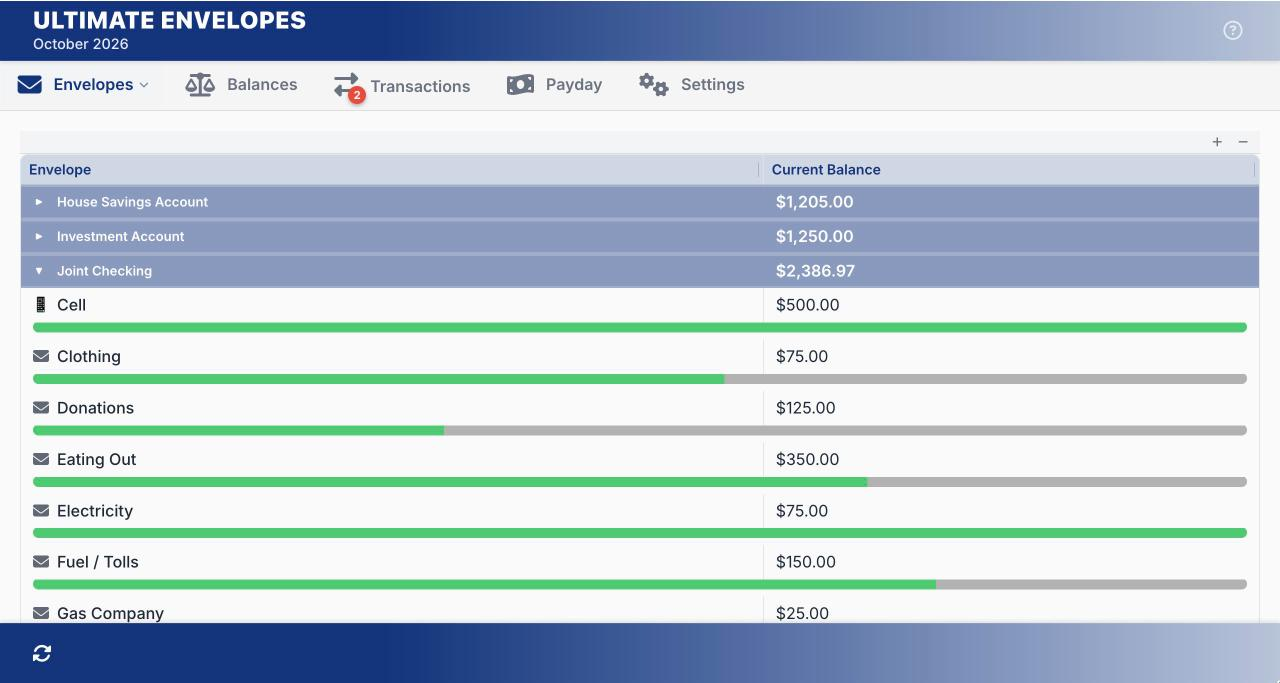
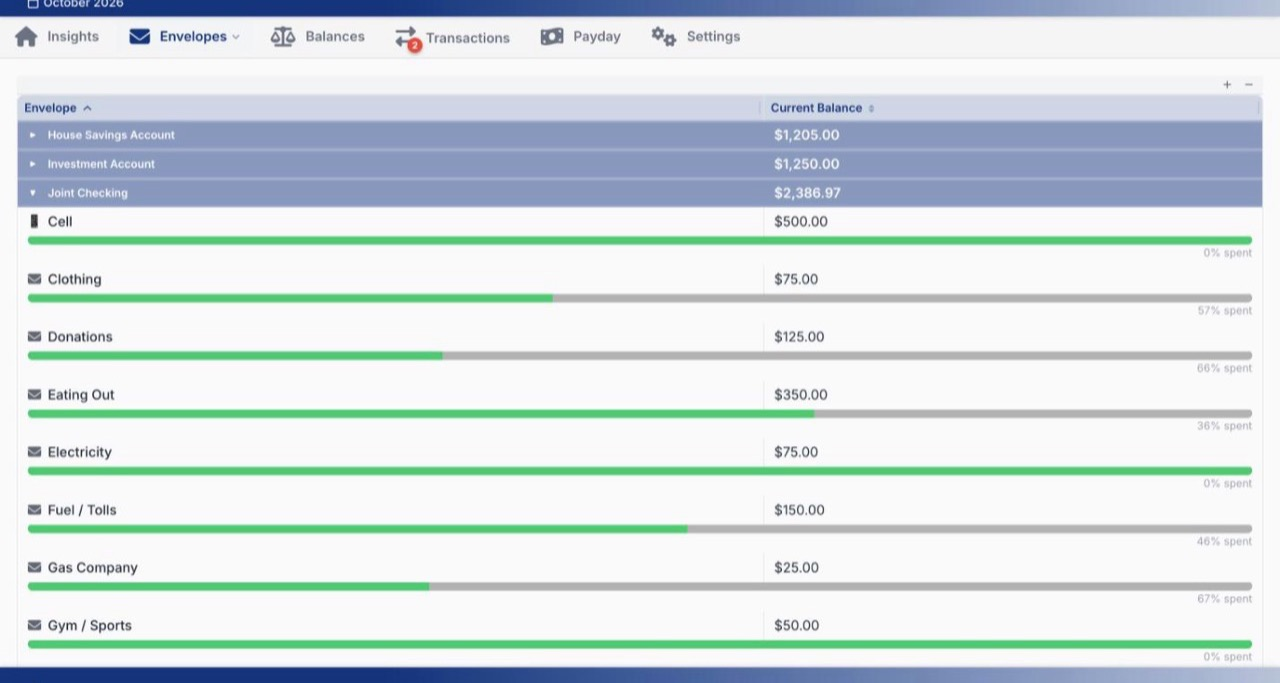
Docs (Companion 26.11): Insights tab and Edit layout, tools panels, Transactions search, ⓘ menu; new larger-screen shots

diff --git a/CLAUDE.md b/CLAUDE.md
@@ -74,7 +74,7 @@ This site is UE's primary source of end-user support documentation — write for
 | `ue26/sheet-reference.md` | Connecting Tiller, transaction types, first-time envelope funding, Categories sheet columns, Funding Transactions (Sheet subpage) — rebuilt for 26.x from `old docs/` |
 | `ue26/budget-tools.md` | Budget Tools and the Budget History tab: migration, Edit Budgets and Templates, Bulk Edit, template slots, Rename Template, Budget Settings, Refresh Categories Columns (Sheet subpage). Feature branch `feature/envelope-details` until released |
 | `ue26/companion-app.md` | UE Companion App overview: requirements, a table linking each tab page, screenshot carousel, home-screen install |
-| `ue26/companion-home.md` / `companion-envelopes.md` / `companion-balances.md` / `companion-transactions.md` / `companion-payday.md` / `companion-settings.md` | One page per app tab (Companion subpages). Each covers what the tab shows, then that tab's own settings. Per-tab settings (Envelope/Balance Settings) live on that tab's page; app-wide settings and Merchant Logos live on the Settings page |
+| `ue26/companion-home.md` (the Insights tab; the URL kept its old name) / `companion-envelopes.md` / `companion-balances.md` / `companion-transactions.md` / `companion-payday.md` / `companion-settings.md` | One page per app tab (Companion subpages). Each covers what the tab shows, then that tab's own settings. Per-tab settings (Envelope/Balance Settings) live on that tab's page; app-wide settings and Merchant Logos live on the Settings page |
 | `ue26/companion-setup.md` | Companion App deployment/connection walkthrough (Companion subpage) |
 | `ue26/categorize-transactions.md` | Categorizing transactions in the Companion, incl. Suggested envelopes (Companion subpage) |
 | `ue26/split-transaction.md` | Split Transaction walkthrough (Companion subpage) — nav title carries the "Now Available" badge |
@@ -106,7 +106,7 @@ docs:
       Changelog       → /ue26/sheet-changelog/
     UE Companion App → /ue26/companion-app/
       Getting Started           → /ue26/companion-setup/
-      Home                      → /ue26/companion-home/
+      Insights                  → /ue26/companion-home/
       Envelopes                 → /ue26/companion-envelopes/
       Balances                  → /ue26/companion-balances/
       Transactions              → /ue26/companion-transactions/
@@ -173,9 +173,11 @@ Features documented ahead of their Companion release carry `<span class="badge-c
 
 None pending. (Help Inside the App and the Tiller shortcut shipped in Companion v26.10.1.)
 
-**"New" badges** (`<span class="badge-new"><i class="fas fa-star" aria-hidden="true"></i> New</span>`, a green pill) mark pages and features added in the Budget Tools release: the Budget Tools page (title and sidebar), Sheet Reference → Emoji, two Sheet FAQ questions, Companion Envelopes (Envelope Details, Hide an Envelope, Choose an Emoji, Budget & Templates, the Summary card), Payday (more templates, Add a Template, Retire or Delete a Template), Settings (How the App Loads Your Data) and the Companion FAQ (Why does it say "Showing cached data"?). Headings with a badge carry an explicit `{: #id}` so their links don't change. Remove these badges in the release after.
+The Insights, tools-panel, Transactions search and ⓘ menu doc updates describe Companion v26.11 (feature branch `feature/envelope-details`); they go live with that release. Their new pictures (`companion-*-tools.jpg`, `companion-insights-edit-layout.jpg`) are larger-screen only until phone shots are taken.
 
-**"Updated" badges** (`<span class="badge-updated"><i class="fas fa-pen" aria-hidden="true"></i> Updated</span>`, a blue pill): whenever a doc edit significantly changes an existing section, put this badge next to that section's heading **and** next to the page's entry in the sidebar (`_data/navigation.yml`); brand-new sections and pages get "New" instead. Give a badged heading an explicit `{: #id}` (its old anchor) so links keep working. Currently on: Sheet Reference (Funding Templates, Monthly Budget Columns; sidebar), Sheet FAQ (sidebar), Companion Envelopes (Envelope Insights, Envelope Settings; sidebar), Payday (The Payday Screen, Each Envelope, Funding Templates, Edit a Template; sidebar), Settings (sidebar). Remove them in the release after, along with the "New" badges.
+**"New" badges** (`<span class="badge-new"><i class="fas fa-star" aria-hidden="true"></i> New</span>`, a green pill) mark pages and features added in the Budget Tools release: the Budget Tools page (title and sidebar), Sheet Reference → Emoji, two Sheet FAQ questions, Companion Envelopes (Envelope Details, Hide an Envelope, Choose an Emoji, Budget & Templates, the Summary card), Payday (more templates, Add a Template, Retire or Delete a Template), Settings (How the App Loads Your Data), Insights (Arrange the Dashboard), Envelopes (The Tools Panel) and the Companion FAQ (Why does it say "Showing cached data"?). Headings with a badge carry an explicit `{: #id}` so their links don't change. Remove these badges in the release after.
+
+**"Updated" badges** (`<span class="badge-updated"><i class="fas fa-pen" aria-hidden="true"></i> Updated</span>`, a blue pill): whenever a doc edit significantly changes an existing section, put this badge next to that section's heading **and** next to the page's entry in the sidebar (`_data/navigation.yml`); brand-new sections and pages get "New" instead. Give a badged heading an explicit `{: #id}` (its old anchor) so links keep working. Currently on: Sheet Reference (Funding Templates, Monthly Budget Columns; sidebar), Sheet FAQ (sidebar), Companion Envelopes (Envelope Insights, Envelope Settings; sidebar), Payday (The Payday Screen, Each Envelope, Funding Templates, Edit a Template; sidebar), Settings (sidebar), Insights (page title, The Cards; sidebar), Companion Envelopes (Envelope Balances), Balances (Balance Settings; sidebar), Transactions (The Tools Panel, Search and Filter; sidebar), Companion App (Help Inside the App; sidebar), Companion FAQ (sidebar). Remove them in the release after, along with the "New" badges.
 
 ## Help Page (/help/)
 

diff --git a/ue26/companion-envelopes.md b/ue26/companion-envelopes.md
@@ -11,9 +11,14 @@ See all your envelopes and their current balances at a glance, then tap into any
 
 ---
 
-## Envelope Balances
+## Envelope Balances <span class="badge-updated"><i class="fas fa-pen" aria-hidden="true"></i> Updated</span>
+{: #envelope-balances}
 
 Envelopes are organized in collapsible groups, just like the sheet. Tap an envelope to open its details.
+
+- **Sort:** tap the **Envelope** or **Current Balance** column header to sort by name or balance; tap again to reverse it. The groups are sorted the same way.
+- **% spent:** under each progress bar, how much of the envelope's money (its starting balance plus what was funded this month) has been spent.
+- **Open a progress bar:** tap it to see Funded, Spent, and Remaining. Each envelope remembers whether you left it open or closed.
 
 If your sheet has an **Emoji** column, each envelope's emoji shows in place of the envelope icon. Savings envelopes show the money bag and the emoji.
 
@@ -120,22 +125,28 @@ Changes apply from the month you pick onward. Earlier months keep their amounts.
 ## Envelope Settings <span class="badge-updated"><i class="fas fa-pen" aria-hidden="true"></i> Updated</span>
 {: #envelope-settings}
 
-1. Go to the **Envelopes** tab.
-2. Tap **Envelopes** in the tab bar again to open its menu (the small arrow next to the name is the hint), then tap **Settings**.
+### The Tools Panel <span class="badge-new"><i class="fas fa-star" aria-hidden="true"></i> New</span>
+{: #the-tools-panel}
 
-{% include figure class="phone-screenshot" image_path="/assets/images/companion-envelope-settings-menu.jpg" alt="Envelopes tab menu open, showing Settings and New Envelope" caption="Tap Envelopes again, then Settings" %}
+Tap **Envelopes** in the tab bar again (the small arrow next to the name is the hint) to open the tools panel. Tap it once more to close it; the app remembers whether you left it open.
 
-The same menu has **New Envelope** for creating an envelope.
+- **Filter pills:** Visible, Favorite, Overspent, Positive, Zero, Income, Transfer, All, or Hidden. Group totals add up only the envelopes you're showing.
+- **Group By pills:** Account, Group, Type, Visibility, or Off.
+- **New Envelope** creates an envelope, and **More Settings** opens Envelope Settings.
+
+{% include figure image_path="/assets/images/companion-envelope-tools.jpg" alt="Envelopes tools panel with filter pills, Group By pills, and New Envelope and More Settings buttons above the envelope list" caption="The Envelopes tools panel" %}
+
+### More Settings
+
+Tap **More Settings** in the tools panel.
 
 | Setting | What it does |
 |---|---|
-| **Filter By** | Which envelopes to show: All Visible, All, Favorite, Hidden, Income, Transfer, Negative, Positive, or Zero Balance. |
-| **Group By** | Group envelopes by **Account**, **Group**, **Type**, or **Visibility**, or turn grouping **Off**. |
 | **Column Visibility** *(computer only)* | Choose columns: Spent, Budget, Funded, Remaining, Total Balance, Beginning Balance, Previous Spend, Transaction Count. Phones show envelopes as cards, so this section only appears on larger screens. |
-| **Display** | Show or hide each envelope's progress bar. |
+| **Progress Bar** | Show or hide each envelope's progress bar, and **Show expanded by default** to open every bar with its Funded, Spent, and Remaining. Envelopes you open or close yourself keep your choice. |
 | **Envelope Insight Charts** | Choose which cards appear when you open an envelope: Summary, Current Balance, Funding Progress, Spending Comparison, Spending History, Savings Plan. |
 
-{% include figure class="phone-screenshot" image_path="/assets/images/companion-envelope-settings.png" alt="Envelope Settings panel with Filter By, Group By, Display, and Envelope Insight Charts numbered 1 to 6 starting with Summary" caption="Envelope Settings on a phone. The numbers show the order charts will appear" %}
+{% include figure class="phone-screenshot" image_path="/assets/images/companion-envelope-settings.png" alt="Envelope Settings panel with Progress Bar and Envelope Insight Charts numbered 1 to 6 starting with Summary" caption="Envelope Settings on a phone. The numbers show the order charts will appear" %}
 
 **Tip:** for columns and charts, the order you check them is the order they appear. The number next to each chart shows its position.
 {: .notice--info}

diff --git a/ue26/companion-transactions.md b/ue26/companion-transactions.md
@@ -31,23 +31,23 @@ The red number on the **Transactions** tab is how many transactions still need a
 
 ---
 
-## The Transactions Menu
+## The Tools Panel <span class="badge-updated"><i class="fas fa-pen" aria-hidden="true"></i> Updated</span>
+{: #the-transactions-menu}
 
-Tap **Transactions** in the tab bar again to open its menu.
-
-{% include figure class="phone-screenshot" image_path="/assets/images/companion-transactions-menu.jpg" alt="Transactions menu open, showing Add, Search, and Filter" caption="Tap Transactions again for Add, Search, and Filter" %}
+Tap **Transactions** in the tab bar again (the small arrow next to the name is the hint) to open the tools panel:
 
 | Option | What it does |
 |---|---|
-| **Add** | Add a new transaction. |
-| **Search** | Opens the search box. Tap the arrow beside it to show more filters. |
-| **Filter** | Opens the search box with all the filters already showing. |
+| **All** / **Uncategorized** | Show every transaction, or only the ones that still need an envelope. |
+| **Add Transaction** | Add a new transaction. |
+
+{% include figure image_path="/assets/images/companion-transactions-tools.jpg" alt="Transactions tools panel with All and Uncategorized pills and an Add Transaction button, above the search bar" caption="The Transactions tools panel" %}
 
 ---
 
 ## Add a Transaction
 
-1. Tap **Transactions** again, then **Add**.
+1. Tap **Transactions** again, then **Add Transaction**.
 2. Fill in the date, description, amount, envelope, and account.
 3. Tap **Add Transaction**. It's saved to your Google Sheet right away.
 
@@ -55,9 +55,10 @@ Tap **Transactions** in the tab bar again to open its menu.
 
 ---
 
-## Search and Filter
+## Search and Filter <span class="badge-updated"><i class="fas fa-pen" aria-hidden="true"></i> Updated</span>
+{: #search-and-filter}
 
-Narrow the list to just the transactions you're looking for:
+The search bar is always at the top of the list. Type to search, or tap the arrow at its right to show the detailed filters:
 
 | Filter | What it does |
 |---|---|
@@ -66,10 +67,14 @@ Narrow the list to just the transactions you're looking for:
 | **All Accounts** | Show only one account's transactions. |
 | **All Tags** | Show only transactions with a certain tag. |
 | **Start Date** / **Finish Date** | Show only transactions in a date range. |
-| **Show Uncategorized Only** | Show only transactions that still need an envelope. |
 | **Clear** | Remove all filters. |
 
-{% include figure class="phone-screenshot" image_path="/assets/images/companion-transactions-filters.jpg" alt="Search and filter panel with search box, envelope, account, and tag dropdowns, date range, Clear, and Show Uncategorized Only" caption="Search and filter options" %}
+{% include figure class="phone-screenshot" image_path="/assets/images/companion-transactions-filters.jpg" alt="Search bar with the detailed filters open: envelope, account, and tag dropdowns, date range, and Clear; a Filtered line above shows 10 of 165 transactions" caption="Search and filter options" %}
+
+**When the list is filtered**, a **Filtered · 10 of 165 transactions** line appears above the search bar, with **Clear** to show everything again. The Transactions tab icon also gets a small red search badge, so you can tell from any tab that the list isn't showing everything.
+{: .notice--info}
+
+To see only transactions that need an envelope, use the **Uncategorized** pill in the tools panel.
 
 ---
 

diff --git a/ue26/companion-home.md b/ue26/companion-home.md
@@ -1,13 +1,15 @@
 ---
 layout: single
-title: "Home Tab"
-description: "Your budget at a glance, and how to customize the dashboard."
+title: 'Insights Tab <span class="badge-updated"><i class="fas fa-pen" aria-hidden="true"></i> Updated</span>'
+description: "Your budget at a glance, and how to arrange the dashboard."
 permalink: /ue26/companion-home/
 toc: true
 toc_label: "On This Page"
 ---
 
-Get a quick pulse on your budget the moment you open the app: account balances, envelope health (how many envelopes are negative this month), your favorite envelopes with balance bars, and recent transaction activity, all in one view.
+Get a quick pulse on your budget the moment you open the app: account balances, envelope health (how many envelopes are overspent this month), your favorite envelopes with balance bars, and recent transaction activity, all in one view.
+
+The **Insights** tab is the first tab in the tab bar (it used to be called Home).
 
 <div class="screenshot-grid">
 {% include figure class="phone-screenshot" image_path="/assets/images/companion-insights-dashboard-1.jpg" alt="Insights Dashboard showing account balances and envelope health" caption="The Insights Dashboard: your budget at a glance" %}
@@ -16,12 +18,29 @@ Get a quick pulse on your budget the moment you open the app: account balances, 
 
 ---
 
-## Customize the Dashboard
+## The Cards <span class="badge-updated"><i class="fas fa-pen" aria-hidden="true"></i> Updated</span>
+{: #the-cards}
 
-On the **Home** tab, tap **Customize** to:
+Tap a card to open or close it. A few cards have extra controls:
 
-- Rearrange the insight cards
-- Hide the ones you don't use
-- Change their size (**Small**, **Medium**, or **Large**)
+- **Top Envelopes:** your biggest envelopes for the period. Use the **Expense**, **Income**, and **Transfer** pills to choose what's included; each type has its own color. Tap the period (for example **this month**) to switch between this week, month, quarter, and year. Tap an envelope to open its details.
+- **Recent Transactions:** the same type pills and colored dots, a list that matches the period in the card's header, and the date under each amount.
+- **Account Balances:** each balance shows when it was last updated.
+- **Envelope Health:** how many envelopes are overspent. A $0.00 balance doesn't count as overspent.
+
+---
+
+## Arrange the Dashboard <span class="badge-new"><i class="fas fa-star" aria-hidden="true"></i> New</span>
+{: #customize-the-dashboard}
+
+Tap **Edit layout** at the top right of the cards. Each card then shows its controls:
+
+- **Move a card:** drag it to a new spot. On a phone, press and hold a moment before dragging, so scrolling doesn't move cards by accident.
+- **Change its size:** tap **S**, **M**, or **L**.
+- **Hide it:** tap the eye. Hidden cards stay faded while you edit, and are gone once you're done.
+
+Tap **Done** to save. Prefer a list? **List view**, next to Done, lets you reorder, resize, and hide cards from a list instead.
+
+{% include figure image_path="/assets/images/companion-insights-edit-layout.jpg" alt="Insights tab in Edit layout: each card has a drag handle, an S M L size switch and an eye button; List view and Done are at the top right" caption="Edit layout: drag cards, pick a size, or hide them" %}
 
 Want the app to open somewhere else? Change the **Starting Tab** on the [Settings tab](/ue26/companion-settings/).

diff --git a/ue26/companion-settings.md b/ue26/companion-settings.md
@@ -10,7 +10,7 @@ toc_label: "On This Page"
 Make the app look and work the way you like. Settings live in two places:
 
 - **The Settings tab** (this page) for app-wide choices: colors, text size, which tab opens first, and your sheet connection.
-- **Each tab's own settings** for what that screen shows. Tap the tab again in the tab bar, then **Settings**. See [Envelope Settings](/ue26/companion-envelopes/#envelope-settings) and [Balance Settings](/ue26/companion-balances/#balance-settings).
+- **Each tab's own settings** for what that screen shows. Tap the tab again in the tab bar to open its tools panel, then **More Settings**. See [Envelope Settings](/ue26/companion-envelopes/#envelope-settings) and [Balance Settings](/ue26/companion-balances/#balance-settings).
 
 ---
 
@@ -18,7 +18,7 @@ Make the app look and work the way you like. Settings live in two places:
 
 Tap **Settings** at the right end of the tab bar.
 
-{% include figure class="phone-screenshot" image_path="/assets/images/companion-settings-tab.jpg" alt="Settings tab with palette, theme, and font size icons at the top, then Starting Tab, Transaction Record Limit, Merchant Logos, Sheet Connection, and the cache date with a Tiller icon at the bottom" caption="The Settings tab" %}
+{% include figure class="phone-screenshot" image_path="/assets/images/companion-settings-tab.jpg" alt="Settings tab with palette, theme, and font size icons at the top, then Starting Tab, Transaction Record Limit, Merchant Logos, Sheet Connection, and the cache date at the bottom" caption="The Settings tab" %}
 
 The three icons at the top right of the Settings card:
 
@@ -32,14 +32,16 @@ Below them:
 
 | Setting | What it does |
 |---|---|
-| **Starting Tab** | The tab the app opens to: **Home**, **Envelopes**, **Balances**, **Transactions**, or **Payday**. |
+| **Starting Tab** | The tab the app opens to: **Home** (the Insights tab), **Envelopes**, **Balances**, **Transactions**, or **Payday**. |
 | **Transaction Record Limit** | How many recent transactions the app loads: **1000**, **2500**, or **5000**. Higher shows more history but loads more slowly. |
 | **Merchant Logos** | Tap **Update Logos** to add logos for merchants that don't have one yet. See [Merchant Logos](#merchant-logos) below. |
 | **Sheet Connection** | Shows which sheet the app is connected to. Tap **Change Connected Sheet** to switch to a different one. |
-| **Tiller** <span class="badge-now-available">(Now Available)</span> | The Tiller icon at the bottom right, next to the cache date, opens **my.tiller.com** in a new tab. |
 | **Cache last updated** | At the bottom left: when the app last read your sheet fresh. See [How the App Loads Your Data](#how-the-app-loads-your-data). |
 
 These choices are saved with your app, so they're the same on every device.
+
+Looking for the Tiller shortcut? It moved to the **ⓘ** menu at the bottom right of the footer, next to **Help & Docs**, on every tab except Settings. See [Help Inside the App](/ue26/companion-app/#help-inside-the-app-now-available).
+{: .notice--info}
 
 <div class="screenshot-grid">
 {% include figure class="phone-screenshot" image_path="/assets/images/companion-settings-accent-color.jpg" alt="Settings page with an accent color picker open" caption="Personalizing the accent color" %}

diff --git a/ue26/companion-balances.md b/ue26/companion-balances.md
@@ -13,11 +13,11 @@ View all your accounts and your net worth, then tap into any account for its bal
 
 ## Accounts and Net Worth
 
-Accounts are grouped by type, class, or institution, with your net worth at the top.
+Accounts are grouped by group, type, class, or institution, with your net worth at the top. Each group's header lines up with the table: its name under Account and its total under Balance.
 
 {% include figure class="phone-screenshot" image_path="/assets/images/companion-balances-tab.jpg" alt="Balances tab showing accounts grouped by type with net worth total" caption="All accounts and net worth, grouped by type" %}
 
-Net worth is tracked over time too, so you can watch it trend up or down month to month.
+Net worth is tracked over time too, so you can watch it trend up or down month to month. In the table view, the header stays at the top as you scroll.
 
 {% include figure class="phone-screenshot" image_path="/assets/images/companion-net-worth-trend.jpg" alt="Net worth trend chart showing net worth, assets, and liabilities over several months" caption="Net worth trend over time" %}
 
@@ -31,21 +31,25 @@ Tap into any account for its own Account Insights: a balance history chart along
 
 ---
 
-## Balance Settings
+## Balance Settings <span class="badge-updated"><i class="fas fa-pen" aria-hidden="true"></i> Updated</span>
+{: #balance-settings}
 
-1. Go to the **Balances** tab.
-2. Tap **Balances** in the tab bar again, then tap **Settings**.
+Tap **Balances** in the tab bar again (the small arrow next to the name is the hint) to open the tools panel:
 
-{% include figure class="phone-screenshot" image_path="/assets/images/companion-balance-settings-menu.jpg" alt="Balances tab menu open, showing Settings" caption="Tap Balances again, then Settings" %}
+- **Group By pills:** Group, Type, Class, or Institution.
+- **More Settings** opens Balance Settings.
+
+{% include figure image_path="/assets/images/companion-balances-tools.jpg" alt="Balances tools panel with Group By pills and a More Settings button above the accounts table" caption="The Balances tools panel" %}
+
+In **More Settings**:
 
 | Setting | What it does |
 |---|---|
-| **Group By** | Group accounts by **Group**, **Type**, **Class**, or **Institution**. |
 | **Column Visibility** | Show or hide **Last Updated**, **Envelope Balance**, and **Difference**. |
 | **Visibility** | Show or hide your **Net Worth**. |
 | **Account Insight Charts** | Show or hide the **Balance History** chart when you open an account. |
 
-{% include figure class="phone-screenshot" image_path="/assets/images/companion-balance-settings.jpg" alt="Balance Settings panel with Group By, Column Visibility, a collapsed Visibility section, and Account Insight Charts" caption="Balance Settings on a phone" %}
+{% include figure class="phone-screenshot" image_path="/assets/images/companion-balance-settings.jpg" alt="Balance Settings panel with Column Visibility, a collapsed Visibility section, and Account Insight Charts" caption="Balance Settings on a phone" %}
 
 Sections with an arrow (▸) are collapsed. Tap the section name to open it.
 

diff --git a/ue26/companion-app.md b/ue26/companion-app.md
@@ -65,22 +65,26 @@ The app has a tab for each part of your budget. Each page below covers what the 
 
 | Tab | What it's for |
 |---|---|
-| [**Home**](/ue26/companion-home/) | Your budget at a glance: balances, envelope health, favorites, and recent activity |
+| [**Insights**](/ue26/companion-home/) | Your budget at a glance: balances, envelope health, favorites, top envelopes, and recent activity |
 | [**Envelopes**](/ue26/companion-envelopes/) | Envelope balances, per-envelope charts, and envelope settings |
 | [**Balances**](/ue26/companion-balances/) | Accounts, net worth over time, and balance settings |
 | [**Transactions**](/ue26/companion-transactions/) | Add, edit, search, and categorize transactions |
 | [**Payday**](/ue26/companion-payday/) | Fund your envelopes when you get paid, with funding templates |
 | [**Settings**](/ue26/companion-settings/) | Theme, font size, starting tab, merchant logos, and your sheet connection |
 
-**Tip:** tap the tab you're already on to open its menu (the small arrow next to the name is the hint). That's where each tab's own settings live.
+**Tip:** tap the tab you're already on to open its tools panel (the small arrow next to the name is the hint): filters, Group By, and that tab's actions and settings.
 {: .notice--info}
 
 If you connected a **Tiller Foundation** sheet instead of a UE Sheet, the app shows budget vs. actuals instead of envelopes, and Payday funding isn't available.
 
-### Help Inside the App <span class="badge-now-available">(Now Available)</span>
+### Help Inside the App <span class="badge-updated"><i class="fas fa-pen" aria-hidden="true"></i> Updated</span>
+{: #help-inside-the-app-now-available}
 
-Tap the **?** icon at the top right of the title bar to open this support site inside the app. The title bar and tabs stay visible, so you can switch back any time.
+Tap the small **ⓘ** icon at the bottom right of the footer, then **Help & Docs**, to open this support site inside the app. The title bar and tabs stay visible, so you can switch back any time. The same menu has **Open Tiller**, which opens my.tiller.com in a new tab.
 
+{% include figure class="phone-screenshot" image_path="/assets/images/companion-footer-info-menu.jpg" alt="The footer info menu open, showing Help & Docs and Open Tiller" caption="The ⓘ menu: Help & Docs and Open Tiller" %}
+
+- The ⓘ icon is hidden on the Settings tab.
 - Tap **↗** to open the page in a full browser tab, or **×** (or any tab) to close help.
 - On a phone, once you scroll down and the tab bar is replaced by the **☰** menu, **Help** is in that menu instead.
 - Can't find the answer? The bottom of the Help panel links to [support@ultimateenvelopes.com](mailto:support@ultimateenvelopes.com).

diff --git a/ue26/companion-payday.md b/ue26/companion-payday.md
@@ -22,7 +22,7 @@ At the top, two numbers keep you on track:
 - **Available to Fund:** income that hasn't been put into envelopes yet.
 - **Remaining to Fund:** how much your envelopes still need, after taking off any extra in envelopes that are over-funded. It counts down to $0.00 as you enter amounts, and turns red if your envelopes have more than their budgets overall.
 
-When everything is covered, you'll see **Congrats! All money has been allocated!**
+When everything is covered, a small **All money allocated** badge appears.
 
 Envelopes are grouped by their funding account. Tap an account to open it, or use **+** / **−** to open or close them all. Each account's header shows how much its envelopes still need, or **$X over-funded** in red, with a red edge, when they have more than they need.
 
@@ -92,7 +92,9 @@ Templates save the amounts you usually give each envelope, for example one per p
 ### Edit a Template <span class="badge-updated"><i class="fas fa-pen" aria-hidden="true"></i> Updated</span>
 {: #edit-a-template}
 
-1. Tap **Payday** in the tab bar again, then tap **Edit Templates**.
+1. Tap **Payday** in the tab bar again to open the tools panel, then tap **Edit Templates**.
+
+   {% include figure image_path="/assets/images/companion-payday-tools.jpg" alt="Payday tools panel with an Edit Templates button above Available to Fund" caption="The Payday tools panel" %}
 2. Choose the template to edit (for example, **Paycheck 1**, **Paycheck 2**). If you have more than fit on the screen, swipe the list or tap the **›** arrow.
 3. Change the amounts. Each account header shows how many envelopes have an amount and the total.
 4. Tap **Save Template**. To leave without saving, tap **×**.

diff --git a/ue26/companion-faq.md b/ue26/companion-faq.md
@@ -50,11 +50,11 @@ No. The app reads and writes your Google Sheet directly, and your amounts and ba
 
 ### How do I add a transaction?
 
-Tap **Add Transaction**, then fill in the description, amount, envelope, and account. The app saves it to your Google Sheet instantly.
+Tap **Transactions** in the tab bar again to open its tools panel, tap **Add Transaction**, then fill in the description, amount, envelope, and account. The app saves it to your Google Sheet instantly.
 
 ### Can I customize which columns are visible?
 
-Yes. Tap the tab again in the tab bar, then **Settings**, and check the columns you want. The order you check them is the order they appear. See [Envelope Settings](/ue26/companion-envelopes/#envelope-settings) and [Balance Settings](/ue26/companion-balances/#balance-settings).
+Yes. Tap the tab again in the tab bar to open its tools panel, then **More Settings**, and check the columns you want. The order you check them is the order they appear. See [Envelope Settings](/ue26/companion-envelopes/#envelope-settings) and [Balance Settings](/ue26/companion-balances/#balance-settings).
 
 On a phone, envelopes are shown as cards, so envelope column choices only appear on a computer.
 
